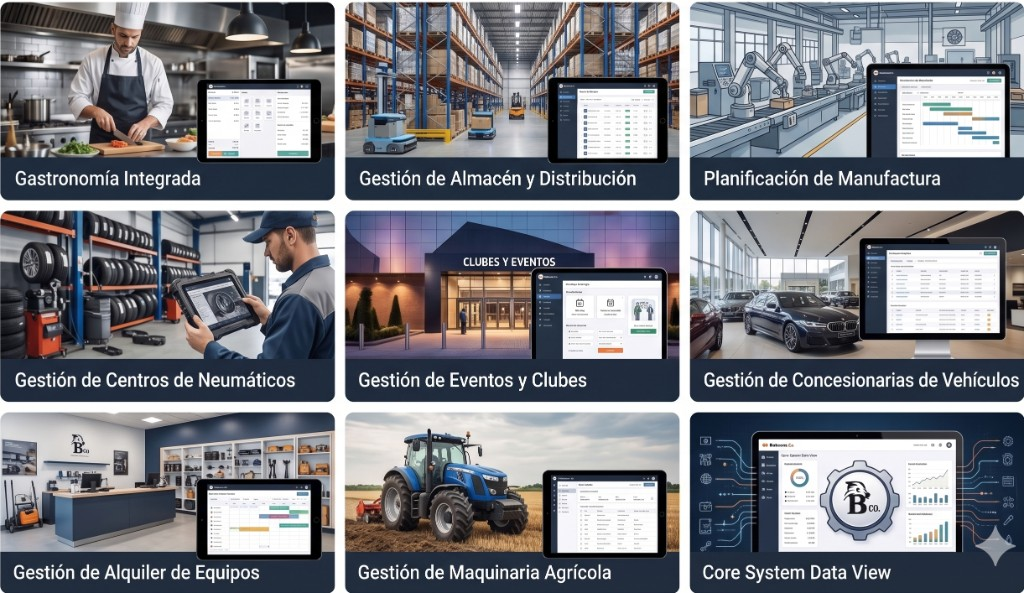
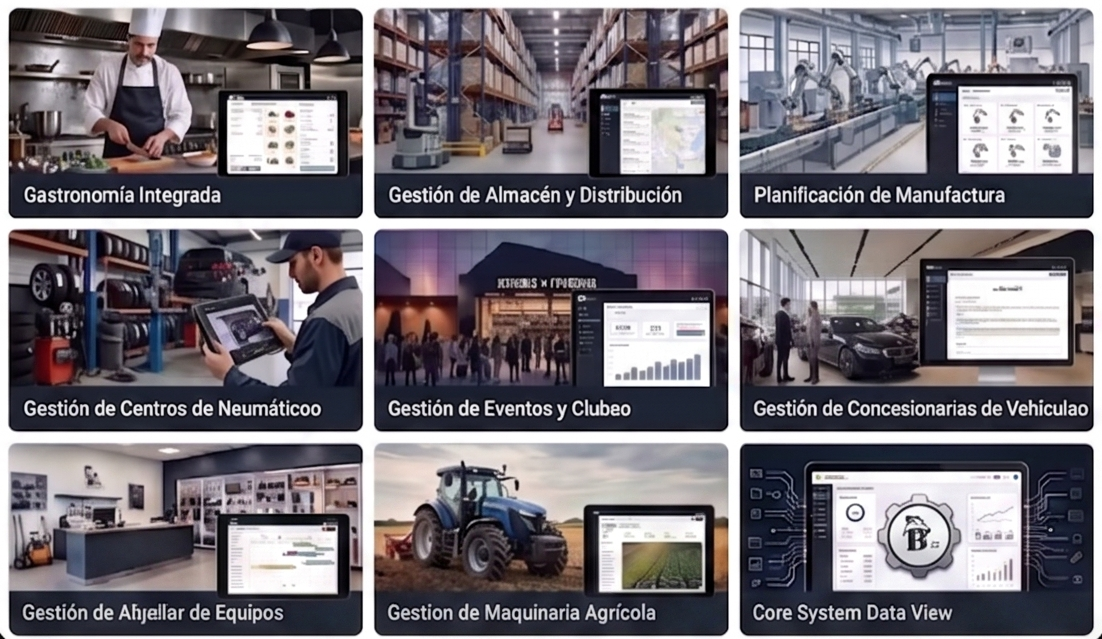
Ajustar hero, actualizar a 70+ modulos e integrar capturas de Manufactura

diff --git a/src/content/erpShowcases.ts b/src/content/erpShowcases.ts
@@ -121,6 +121,94 @@ export const erpShowcases: ErpShowcase[] = [
       },
     ],
   },
+  {
+    verticalSlug: 'manufactura',
+    titulo: 'Así se ve Baboons ERP para plantas de producción',
+    subtitulo:
+      'Órdenes de producción, recetas BOM, control de calidad y dashboard de planta — desde la fábrica de pastas Bossio hasta cualquier planta alimenticia o industrial.',
+    capturasDestacadas: [
+      {
+        src: '/images/erp/manufactura/gestion-manufactura-planta.png',
+        titulo: 'Gestión de Manufactura (Planta)',
+        descripcion:
+          'Acceso directo a órdenes de producción, recetas BOM, control de calidad y dashboard de planta.',
+      },
+      {
+        src: '/images/erp/manufactura/ordenes-produccion-kanban.png',
+        titulo: 'Órdenes de Producción — Kanban',
+        descripcion:
+          'Tablero Kanban con lotes en borrador, planificadas, en proceso, control de calidad y finalizadas.',
+      },
+      {
+        src: '/images/erp/manufactura/formulas-recetas-bom.png',
+        titulo: 'Fórmulas / Recetas (BOM)',
+        descripcion:
+          'Estructuras de materiales con materias primas, insumos y packaging. Clonado, explosión e impresión.',
+      },
+      {
+        src: '/images/erp/manufactura/dashboard-planta.png',
+        titulo: 'Dashboard de Control de Planta',
+        descripcion:
+          'KPIs de órdenes activas, aprobación de calidad, fórmulas activas y alertas de materia prima.',
+      },
+      {
+        src: '/images/erp/manufactura/control-calidad.png',
+        titulo: 'Estación de Control de Calidad',
+        descripcion:
+          'Inspecciones de lote, bitácoras de conformidad y criterios dinámicos por producto.',
+      },
+      {
+        src: '/images/erp/manufactura/estructura-bom.png',
+        titulo: 'Estructura de Manufactura (BOM)',
+        descripcion:
+          'Explosión de componentes, fases de manufactura y reporte imprimible generado desde el ERP.',
+      },
+    ],
+    secciones: [
+      {
+        titulo: 'Gestión de Manufactura (Planta)',
+        modulos: [
+          'Órdenes de Producción',
+          'Recetas / BOM',
+          'Control de Calidad',
+          'Dashboard Planta',
+        ],
+      },
+      {
+        titulo: 'Producción y trazabilidad',
+        modulos: [
+          'Tablero Kanban de OPs',
+          'Inventario de Lotes & Trazabilidad',
+          'Parte Diario de Planta',
+          'Reserva de materia prima',
+          'Quality gate obligatorio',
+          'Packaging y envases',
+        ],
+      },
+      {
+        titulo: 'Recetas y formulación',
+        modulos: [
+          'Fórmulas / Recetas (BOM)',
+          'Explosión de componentes',
+          'Fases de manufactura',
+          'Clonado de recetas',
+          'Impresión de estructura BOM',
+          'Rendimiento base por receta',
+        ],
+      },
+      {
+        titulo: 'Control de calidad',
+        modulos: [
+          'Estación QC en planta',
+          'Criterios dinámicos por producto',
+          'Bitácora de ensayos',
+          'Historial de inspecciones',
+          'Dictamen Aprobado / Rechazado',
+          'Muestreo estadístico (AQL)',
+        ],
+      },
+    ],
+  },
 ]
 
 export function getErpShowcase(verticalSlug: string): ErpShowcase | undefined {

diff --git a/src/pages/Home.tsx b/src/pages/Home.tsx
@@ -9,9 +9,10 @@ import { HeroPrincipal } from '../components/home/HeroPrincipal'
 import { verticales } from '../content/verticales'
 import { modulos } from '../content/modulos'
 import { casos } from '../content/casos'
+import { ERP_TOTAL_MODULOS } from '../content/erpStats'
 
 const metricas = [
-  { valor: '14+', label: 'Módulos integrados' },
+  { valor: ERP_TOTAL_MODULOS, label: 'Módulos integrados' },
   { valor: '7', label: 'Verticales de negocio' },
   { valor: '100%', label: 'Compliance ARCA/AFIP' },
   { valor: 'PWA', label: 'Web · Mobile · Desktop' },
@@ -121,7 +122,7 @@ export default function Home() {
           <SectionHeading
             eyebrow="Módulos"
             title="Todo conectado, nada duplicado"
-            subtitle="14 módulos activos que comparten base de datos, usuarios y caja. Desde el POS del mozo hasta la orden de producción en planta."
+            subtitle={`Más de ${ERP_TOTAL_MODULOS} módulos que comparten base de datos, usuarios y caja. Desde el POS del mozo hasta la orden de producción en planta.`}
           />
           <div className="mt-12 grid gap-5 sm:grid-cols-2 lg:grid-cols-3">
             {modulosActivos.slice(0, 6).map((modulo) => (
@@ -136,7 +137,7 @@ export default function Home() {
           </div>
           <div className="mt-8 text-center">
             <Button to="/modulos" variant="secondary">
-              Ver los {modulosActivos.length} módulos
+              Ver módulos destacados
               <ArrowRight size={16} aria-hidden="true" />
             </Button>
           </div>
@@ -212,6 +213,34 @@ export default function Home() {
               </li>
             ))}
           </ul>
+        </Container>
+      </section>
+
+      {/* Vista previa ERP — Manufactura */}
+      <section className="border-t border-line bg-surface py-20">
+        <Container>
+          <SectionHeading
+            eyebrow="El ERP en acción"
+            title="Manufactura: de la receta al lote finalizado"
+            subtitle="Órdenes de producción en Kanban, recetas BOM, control de calidad y dashboard de planta — implementado en la Fábrica de Pastas Bossio."
+          />
+          <div className="mt-10 overflow-hidden rounded-2xl border border-line shadow-[var(--shadow-card)]">
+            <img
+              src="/images/erp/manufactura/ordenes-produccion-kanban.png"
+              alt="Órdenes de Producción en tablero Kanban — Baboons ERP Manufactura"
+              className="w-full object-cover object-top"
+              loading="lazy"
+            />
+          </div>
+          <div className="mt-8 flex flex-wrap justify-center gap-3">
+            <Button to="/verticales/manufactura">
+              Ver vertical Manufactura
+              <ArrowRight size={16} aria-hidden="true" />
+            </Button>
+            <Button to="/contacto" variant="secondary">
+              Solicitar demo
+            </Button>
+          </div>
         </Container>
       </section>
 

diff --git a/src/components/home/HeroPrincipal.tsx b/src/components/home/HeroPrincipal.tsx
@@ -8,14 +8,15 @@ export function HeroPrincipal() {
   return (
     <section className="border-b border-line bg-bg">
       <h1 className="sr-only">Baboons ERP — Plataforma ERP multi-negocio para Argentina</h1>
-      <Container className="py-6 sm:py-10">
-        <div className="relative overflow-hidden rounded-2xl shadow-[var(--shadow-lift)] ring-1 ring-line">
+      <Container className="py-5 sm:py-8">
+        <figure className="relative mx-auto w-full max-w-7xl overflow-hidden rounded-xl shadow-[var(--shadow-lift)] ring-1 ring-line sm:rounded-2xl">
           <img
             src={heroImageSrc}
             alt="Baboons ERP — soluciones por industria: gastronomía, distribución, manufactura, neumáticos, eventos, concesionarias y más"
-            className="block w-full"
-            width={1600}
-            height={900}
+            className="block h-auto w-full"
+            width={1920}
+            height={1080}
+            decoding="async"
             fetchPriority="high"
           />
 
@@ -28,20 +29,20 @@ export function HeroPrincipal() {
               <Link
                 key={card.label}
                 to={card.to}
-                className="group relative focus-visible:outline-none focus-visible:ring-2 focus-visible:ring-brand focus-visible:ring-offset-2"
+                className="group relative focus-visible:outline-none focus-visible:ring-2 focus-visible:ring-inset focus-visible:ring-brand"
                 aria-label={card.label}
               >
                 <span className="sr-only">{card.label}</span>
                 <span
-                  className="absolute inset-0 bg-brand/0 transition-colors duration-200 group-hover:bg-brand/10 group-focus-visible:bg-brand/10"
+                  className="absolute inset-0 bg-brand/0 transition-colors duration-200 group-hover:bg-brand/15 group-focus-visible:bg-brand/15"
                   aria-hidden="true"
                 />
               </Link>
             ))}
           </div>
-        </div>
+        </figure>
 
-        <div className="mt-8 flex flex-wrap items-center justify-center gap-3">
+        <div className="mt-7 flex flex-wrap items-center justify-center gap-3 sm:mt-8">
           <Button to="/contacto" size="lg">
             Solicitar demo
             <ArrowRight size={18} aria-hidden="true" />

diff --git a/src/pages/modulos/ModulosIndex.tsx b/src/pages/modulos/ModulosIndex.tsx
@@ -4,6 +4,7 @@ import { Card } from '../../components/ui/Card'
 import { Badge } from '../../components/ui/Badge'
 import { Seo } from '../../components/ui/Seo'
 import { modulos } from '../../content/modulos'
+import { ERP_TOTAL_MODULOS } from '../../content/erpStats'
 
 export default function ModulosIndex() {
   const activos = modulos.filter((modulo) => modulo.status === 'activo')
@@ -13,17 +14,21 @@ export default function ModulosIndex() {
     <>
       <Seo
         title="M?dulos ? Baboons ERP"
-        description="Todos los m?dulos de Baboons ERP: POS, manufactura, facturaci?n AFIP, CRM, inventario, compras, distribuci?n, remitos y los nuevos TMS, WMS y CEDI."
+        description={`Baboons ERP incluye m?s de ${ERP_TOTAL_MODULOS} m?dulos: POS, manufactura, facturaci?n AFIP, CRM, inventario, compras, distribuci?n, remitos y m?s.`}
       />
       <PageHero
         eyebrow="M?dulos"
         title="Los m?dulos del sistema"
-        subtitle="14 m?dulos en producci?n y los nuevos que llevan a Baboons al nivel enterprise. Cada negocio activa solo lo que necesita."
+        subtitle={`Baboons incluye m?s de ${ERP_TOTAL_MODULOS} m?dulos en producci?n. Ac? mostramos los principales agrupados por capacidad ? cada negocio activa solo lo que necesita.`}
       />
 
       <section className="py-16">
         <Container>
-          <h2 className="text-xl font-bold text-ink">M?dulos activos</h2>
+          <h2 className="text-xl font-bold text-ink">M?dulos destacados</h2>
+          <p className="mt-2 max-w-2xl text-sm text-muted">
+            Estas son las capacidades principales del ERP. El inventario completo supera los{' '}
+            {ERP_TOTAL_MODULOS} m?dulos seg?n el tipo de negocio configurado.
+          </p>
           <div className="mt-6 grid gap-5 sm:grid-cols-2 lg:grid-cols-3">
             {activos.map((modulo) => (
               <Card key={modulo.slug} to={`/modulos/${modulo.slug}`}>

diff --git a/src/components/ui/ErpShowcase.tsx b/src/components/ui/ErpShowcase.tsx
@@ -15,7 +15,7 @@ export function ErpShowcase({ titulo, subtitulo, capturas, secciones }: ErpShowc
         <p className="mt-2 max-w-3xl text-muted">{subtitulo}</p>
       </div>
 
-      <div className="grid gap-8 lg:grid-cols-2">
+      <div className="grid gap-8 lg:grid-cols-2 xl:grid-cols-3">
         {capturas.map((captura) => (
           <figure
             key={captura.src}

diff --git a/src/content/erpStats.ts b/src/content/erpStats.ts
@@ -1,0 +1,5 @@
+/** Cantidad total de módulos del ERP Baboons (todas las verticales). */
+export const ERP_TOTAL_MODULOS = '70+'
+
+/** Módulos destacados en el sitio (agrupaciones de marketing, no el inventario completo). */
+export const ERP_MODULOS_DESTACADOS = 11
